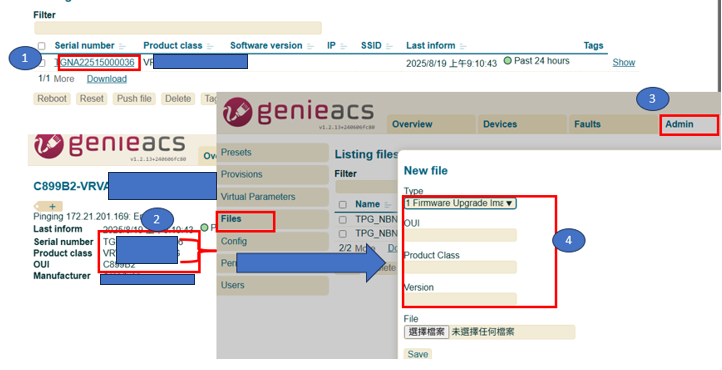
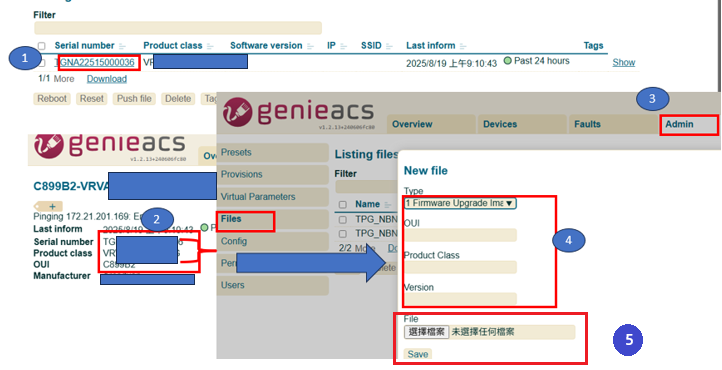
modify genacs some note:

Changed region(s): [[0.5485, 0.8324, 0.8227, 1.0], [0.8532, 0.8622, 0.9141, 0.9811], [0.518, 0.8622, 0.5485, 0.9811]]

diff --git a/Linux_SetEnv/GenieACS/Readme.md b/Linux_SetEnv/GenieACS/Readme.md
@@ -6,7 +6,7 @@ This is a tutorial on how to set up Genieacs server under Ubuntu. Below are the 
 
 **Note:**  `Ubuntu 20.04` and `24.04` setups are different. There are many resources to teach you Ubuntu 20.04, however, I will also write how to setup under 20.04 in case you want to see the comparison. 
 - Ubuntu 20.04: SSL uses 1.1.1 and MongoDB use 4.4
-- Ubuntu 22.04 or 24.04: SSL uses 3.X and MongoDB use 8.0
+- Ubuntu 22.04 ~25.04: SSL uses 3.X and MongoDB use 8.0
 
 ## Automation
 I also provide an automation that will allow for automatic installation and setup. The script supports both `libssl1.1` and `libssl3.3`. 
@@ -15,8 +15,8 @@ I also provide an automation that will allow for automatic installation and setu
 
 ## Content
 - [Check PI Model/OS ver](#systemcheck) 
-- [Ubuntu 20.04](#ubuntu24)
-- [Ubuntu 22.04 or 24.04:](#ubuntu20)
+- [Ubuntu 20.04](#ubuntu20)
+- [Ubuntu 22.04 ~ 25.04:](#ubuntu24)
 - [Run GenieACS](#RunGenieACS)
 - [CPE Set Acs server](cperegister)
 
@@ -34,7 +34,8 @@ You can use either of these commands:
 > `uname -ar` or
 > `hostnamectl`
 
-- check CPU type
+### check CPU type
+
 This is important if you want to install a specfic package, you need to know its ARM CPU 
 ```
 lscpu
@@ -64,7 +65,12 @@ sudo apt install nodejs
 node -v
 ```
 ### Step2: Install MongoDB
-Skip installing SSL, default Ubuntu 20.04 already installs and uses libssl3, you can check by this command `dpkg -l | grep libssl3`
+Skip installing SSL, different ubuntu version have differnt SSL version:
+- Ubuntu 20.04  use ssl v1.1 
+- ubuntu 22.04 or above uses  `ssl v3`, you can check by this command `dpkg -l | grep libssl3`
+
+you can check full version with this command: `openssl version ` or `SSL_VERSION=$(openssl version | awk '{print $2}')`
+
 
 #### 2.1 MogoDB GPG Key
 ```
@@ -156,8 +162,7 @@ After=network.target
 [Service]
 User=genieacs
 EnvironmentFile=/opt/genieacs/genieacs.env
-ExecStart=/usr/bin/genieacs-cwmp
-
+ExecStart=/usr/local/bin/genieacs-cwmp
 [Install]
 WantedBy=default.target
 ```
@@ -272,7 +277,7 @@ node -v
 ```
 ### Step2: Install MongoDB
 
-#### download libssl
+#### download libssl (SKIP no need)
 ```
 echo "deb http://security.ubuntu.com/ubuntu impish-security main" | sudo tee /etc/apt/sources.list.d/impish-security.list
 sudo apt-get update
@@ -348,8 +353,8 @@ After=network.target
 [Service]
 User=genieacs
 EnvironmentFile=/opt/genieacs/genieacs.env
+#ExecStart=/usr/bin/genieacs-cwmp
 ExecStart=/usr/bin/genieacs-cwmp
-
 [Install]
 WantedBy=default.target
 ```
@@ -367,8 +372,8 @@ After=network.target
 [Service]
 User=genieacs
 EnvironmentFile=/opt/genieacs/genieacs.env
+#ExecStart=/usr/bin/genieacs-nbi
 ExecStart=/usr/bin/genieacs-nbi
-
 [Install]
 WantedBy=default.target
 
@@ -386,8 +391,8 @@ After=network.target
 [Service]
 User=genieacs
 EnvironmentFile=/opt/genieacs/genieacs.env
+#ExecStart=/usr/bin/genieacs-fs
 ExecStart=/usr/bin/genieacs-fs
-
 [Install]
 WantedBy=default.target
 
@@ -405,8 +410,8 @@ After=network.target
 [Service]
 User=genieacs
 EnvironmentFile=/opt/genieacs/genieacs.env
+#ExecStart=/usr/bin/genieacs-ui
 ExecStart=/usr/bin/genieacs-ui
-
 [Install]
 WantedBy=default.target
 ```
@@ -466,11 +471,12 @@ setvalue Device.ManagementServer.ConnectionRequestPassword="admin"
 
 ### CPE fw upgrade
 #### Set FW Image
-- Step 1: Set up your file settings
-- Step 2: Click on devices to check register success 
-- Step 3: Copy the correct OUI, product class
-- Step 4: Click on the Admin page and click on files
-- Step 5: Enter the correct information OUI, product class, and version
+- Step 1: Click on devices to check register success 
+- Step 2: Copy the correct OUI, product class
+- Step 3: Click on the Admin page
+- Step 4: Click on files settings, and  Select "1. Firmware Upgrade img" , and enter the correct information OUI, product class, and version
+- Step 5: Upload your images
+
 ![check_cpeOnline_genieacs](img/upgrade_image.PNG)
 
 - Step 6: Please select your image and upload it
@@ -489,3 +495,7 @@ Continue from above, you have to add the image first.
 You can refer picture below: 
 
 ![upgrade_cpe](img/upload_fw.PNG)
+
+
+## Reference
+- https://docs.genieacs.com/en/latest/installation-guide.html#install-genieacs
